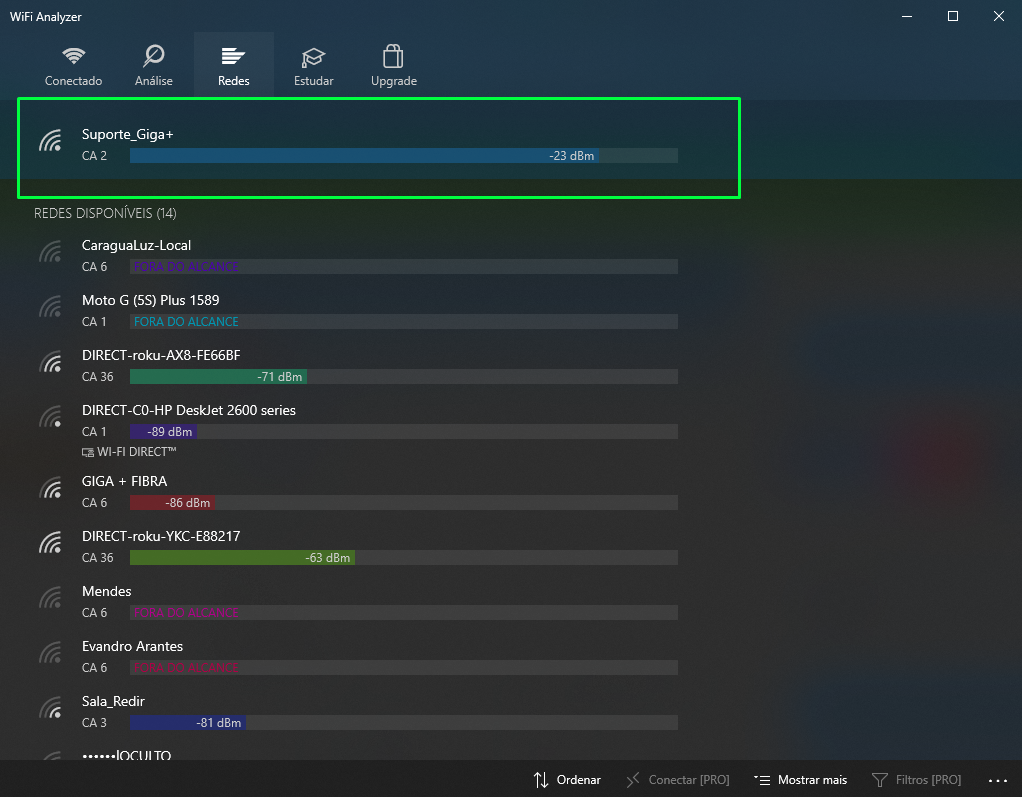
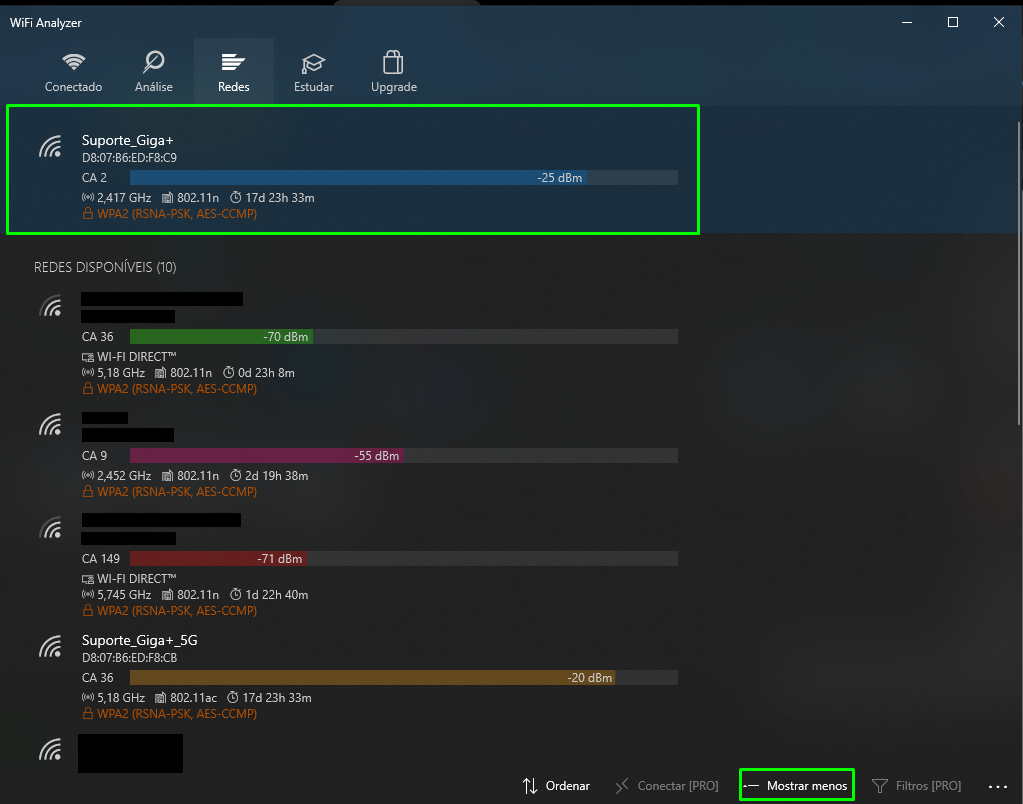
conteudo pc 2

diff --git a/sinal.html b/sinal.html
@@ -26,7 +26,7 @@
         </nav>
     </header>
     <div class="jumbotron">
-        <h1 class="display-4" style="text-align: center;">Teste do sinal Wi-fi</h1>
+        <h1 class="display-4" style="text-align: center;">Teste do sinal Wi-Fi</h1>
         <p class="lead">
         <p><strong>Para lhe ajudar a descobrir como est&aacute; o sinal de seu Wi-Fi ou qual a melhor rede para se
                 conectar</strong> <strong>separamos&nbsp;duas formas de realizar este servi&ccedil;o. </strong></p>
@@ -69,42 +69,73 @@
                                     <div class="alert alert-dark" role="alert">
                                         <img src="img2/Sinal/imagem 1.png" class="img-fluid" style="width: 100%;
                                         border-radius: 1rem;" alt="Imagem responsiva">
-                                        <ol>
-                                            <li>Conecte-se ao Wi-Fi que deseja fazer a
-                                                verifica&ccedil;&atilde;o da forma convencional;</li>
-                                            <li>Agora, abra o &ldquo;Prompt de comando&rdquo; pelo Menu
-                                                iniciar;</li>
-                                        </ol>
+                                        <p style="text-align: left;">1 - Conecte-se ao Wi-Fi que deseja fazer a
+                                            verifica&ccedil;&atilde;o da forma convencional;</p>
+                                        <p style="text-align: left;">2 - Agora, abra o &ldquo;Prompt de comando&rdquo;
+                                            pelo Menu iniciar</p>
                                     </div>
                                     <div class="alert alert-dark" role="alert">
                                         <img src="img2/Sinal/imagem 2.png" class="img-fluid" style="width: 100%;
                                         border-radius: 1rem;" alt="Imagem responsiva">
-                                        <ol>
-                                            <li>Conecte-se ao Wi-Fi que deseja fazer a
-                                                verifica&ccedil;&atilde;o da forma convencional;</li>
-                                            <li>Agora, abra o &ldquo;Prompt de comando&rdquo; pelo Menu
-                                                iniciar;</li>
-                                        </ol>
+                                        <div>
+                                            <div>3 - Entre com o comando: <span
+                                                    style="text-decoration: underline;">netsh wlan show
+                                                    interface</span>;</div>
+                                        </div>
+                                    </div>
+                                    <div class="alert alert-dark" role="alert">
+                                        <img src="img2/Sinal/imagem 3.png" class="img-fluid" style="width: 100%;
+                                        border-radius: 1rem;" alt="Imagem responsiva">
+                                        <p style="text-align: left;">4 - <strong>Em sinal</strong>, voc&ecirc;
+                                            ver&aacute; a qualidade dele.</p>
+                                        <p style="text-align: left;"><em>Este comando, al&eacute;m de mostrar a
+                                                qualidade do sinal, tamb&eacute;m traz algumas informa&ccedil;&otilde;es
+                                                adicionais como o protocolo utilizado, a velocidade m&aacute;xima da
+                                                rede, o canal usado e outros dados importantes.</em></p>
+                                    </div>
+                                    <div class="alert alert-success" role="alert">
+                                        <p style="text-align: left;"><strong>Tamb&eacute;m &eacute; poss&iacute;vel
+                                                utilizar aplicativos espec&iacute;ficos para esta tarefa como o Wi-Fi
+                                                Analyzer, que &eacute; gratuito. A seguir, veja como
+                                                us&aacute;-lo:</strong>
+                                        </p>
+                                    </div>
+                                    <div class="alert alert-dark" role="alert">
+                                        <img src="img2/Sinal/imagem 4.png" class="img-fluid" style="width: 100%;
+                                        border-radius: 1rem;" alt="Imagem responsiva">
+                                        <p style="text-align: left;">1 - <strong>Acesse <span
+                                                    style="text-decoration: underline;"><a
+                                                        href="https://www.microsoft.com/pt-br/p/wifi-analyzer/9nblggh33n0n"
+                                                        target="_blank" rel="noopener">link</a></span>&nbsp;e clique em
+                                                &ldquo;Adquirir&rdquo;</strong> para fazer o download do Wi-Fi Analyzer
+                                            na loja Windows Store;</p>
+                                        <p style="text-align: left;">2 - Ao abri-lo pela primeira vez, conceda a
+                                            permiss&atilde;o solicitada. Ela &eacute; obrigat&oacute;ria para o seu
+                                            funcionamento;</p>
+                                        <p style="text-align: left;">3 - Selecione ent&atilde;o o Brasil na lista,
+                                            conforme indica a imagem</p>
+                                    </div>
+                                    <div class="alert alert-dark" role="alert">
+                                        <img src="img2/Sinal/imagem 5.png" class="img-fluid" style="width: 100%;
+                                        border-radius: 1rem;" alt="Imagem responsiva">
+                                        <p style="text-align: left;">4 - Feche o Wi-Fi Analyzer e abra-o novamente. Em
+                                            sua tela inicial, voc&ecirc; j&aacute; pode acompanhar em tempo real a
+                                            qualidade do sinal da rede em que est&aacute; conectado;</p>
                                     </div>
                                     <div class="alert alert-dark" role="alert">
                                         <img src="img2/Sinal/imagem 6.png" class="img-fluid" style="width: 100%;
                                         border-radius: 1rem;" alt="Imagem responsiva">
-                                        <ol>
-                                            <li>Conecte-se ao Wi-Fi que deseja fazer a
-                                                verifica&ccedil;&atilde;o da forma convencional;</li>
-                                            <li>Agora, abra o &ldquo;Prompt de comando&rdquo; pelo Menu
-                                                iniciar;</li>
-                                        </ol>
+                                        <p style="text-align: left;">5 - Ao ir na op&ccedil;&atilde;o Redes, entretanto,
+                                            voc&ecirc; consegue verificar a intensidade sinal de todas as redes Wi-Fi ao
+                                            seu redor.</p>
                                     </div>
                                     <div class="alert alert-dark" role="alert">
-                                        <img src="img2/Sinal/imagem 1.png" class="img-fluid" style="width: 100%;
+                                        <img src="img2/Sinal/imagem 7.png" class="img-fluid" style="width: 100%;
                                         border-radius: 1rem;" alt="Imagem responsiva">
-                                        <ol>
-                                            <li>Conecte-se ao Wi-Fi que deseja fazer a
-                                                verifica&ccedil;&atilde;o da forma convencional;</li>
-                                            <li>Agora, abra o &ldquo;Prompt de comando&rdquo; pelo Menu
-                                                iniciar;</li>
-                                        </ol>
+                                        <p style="text-align: left;">Na &uacute;ltima tela, ao clicar em
+                                            <strong>&ldquo;Mostrar mais&rdquo;</strong>, voc&ecirc; obt&eacute;m outras
+                                            informa&ccedil;&otilde;es importantes como o protocolo utilizado por cada
+                                            rede e em que frequ&ecirc;ncia elas est&atilde;o atuando.</p>
                                     </div>
                                 </div>
                                 <div class="modal-footer">

diff --git a/css/styles.css b/css/styles.css
@@ -1,3 +1,4 @@
+
 @import url('https://fonts.googleapis.com/css2?family=Open+Sans:wght@300;400;700&family=Poppins:wght@300;400;500;600&display=swap');
 
 :root {
